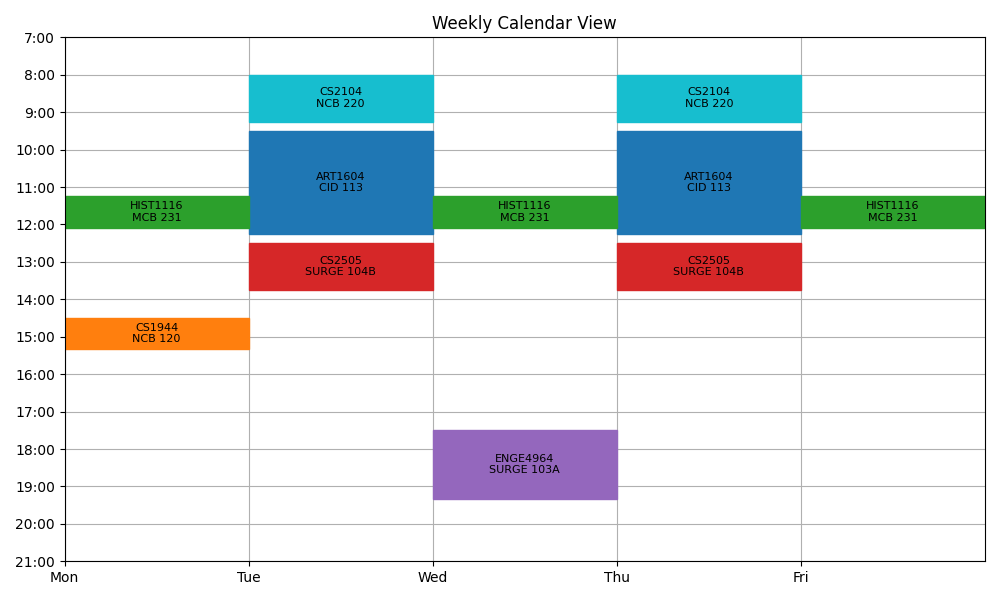
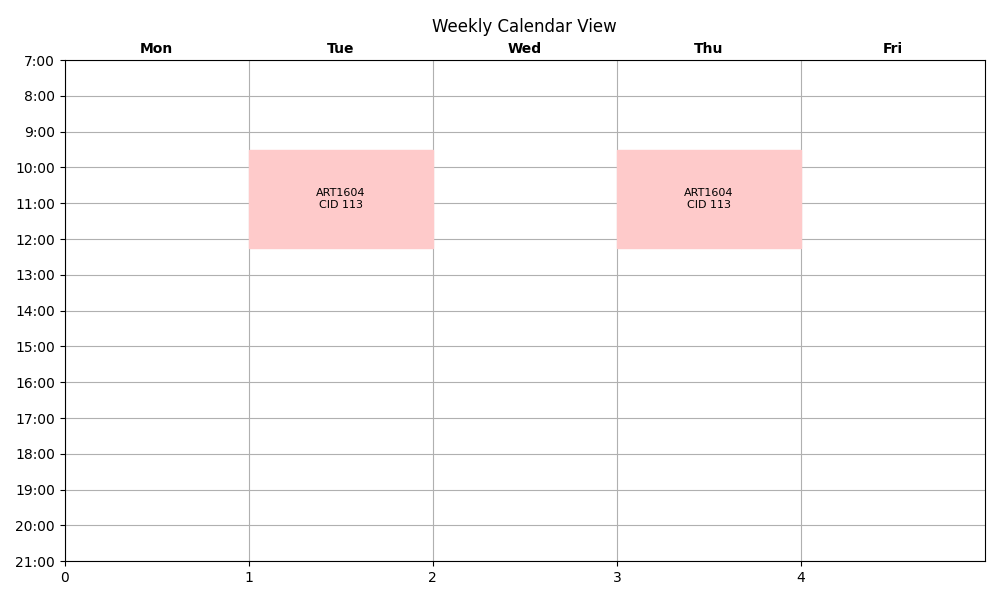
matched colors between calendar view and downloaded pdf

diff --git a/frontend/src/components/ScheduleViewer.js b/frontend/src/components/ScheduleViewer.js
@@ -6,13 +6,35 @@ import { ArrowDownTrayIcon } from '@heroicons/react/24/outline';
 function ScheduleViewer({ schedule }) {
   const [downloadMessage, setDownloadMessage] = useState("");
   const [viewMode, setViewMode] = useState("table"); // 'table' or 'calendar'
+  const [crnColors, setCrnColors] = useState({});
+
+  React.useEffect(() => {
+    if (!schedule || !schedule.classes) return;
+  
+    const colors = [
+      "#FECACA", "#BFDBFE", "#BBF7D0", "#FEF08A", "#E9D5FF",
+      "#FBCFE8", "#C7D2FE", "#99F6E4", "#FED7AA", "#A5F3FC",
+      "#D9F99D", "#FDE68A", "#A7F3D0", "#DDD6FE", "#F5D0FE",
+    ];
+  
+    const crnColorMap = {};
+    schedule.classes.forEach((cls, index) => {
+      if (!crnColorMap[cls.crn]) {
+        crnColorMap[cls.crn] = colors[index % colors.length];
+      }
+    });
+  
+    setCrnColors(crnColorMap);
+  }, [schedule]);
+  
+  
 
   const handleDownloadSchedule = async () => {
     try {
       setDownloadMessage("Preparing download...");
       const response = await axios.post(
         "http://localhost:8080/api/downloadSchedule",
-        { schedule },
+        { schedule, crnColors },
         { responseType: "blob" } // assumes you're sending a file
       );
   
@@ -126,8 +148,9 @@ function ScheduleViewer({ schedule }) {
       ) : (
         <>
           <div className="mb-5">
-            <CalendarView schedule={schedule} />
+            <CalendarView schedule={schedule} setCrnColors={setCrnColors} />
           </div>
+
 
           {/* Online Courses Section */}
           {schedule.classes &&

diff --git a/frontend/src/components/CalendarView.js b/frontend/src/components/CalendarView.js
@@ -1,6 +1,6 @@
 import React, { useState } from "react";
 
-const CalendarView = ({ schedule }) => {
+const CalendarView = ({ schedule, setCrnColors }) => {
   const [selectedClass, setSelectedClass] = useState(null);
   const [hoveredClass, setHoveredClass] = useState(null);
 

diff --git a/app.py b/app.py
@@ -25,7 +25,7 @@ CORS(app)
 load_dotenv()
 
 
-def generate_schedule_pdf(schedule_data):
+def generate_schedule_pdf(schedule_data, inputColors):
     buffer = io.BytesIO()
     doc = SimpleDocTemplate(buffer, pagesize=letter)
     styles = getSampleStyleSheet()
@@ -51,7 +51,7 @@ def generate_schedule_pdf(schedule_data):
     elements.append(table)
     elements.append(Spacer(1, 20))
 
-    create_calendar_plot(schedule_data, "calendar_plot.png")
+    create_calendar_plot(schedule_data, inputColors, "calendar_plot.png")
     from reportlab.platypus import Image
     elements.append(Image("calendar_plot.png", width=500, height=300))
 
@@ -59,13 +59,14 @@ def generate_schedule_pdf(schedule_data):
     buffer.seek(0)
     return buffer
 
-def create_calendar_plot(classes, filename):
+def create_calendar_plot(classes, inputColors, filename):
     days_map = {'M': 0, 'T': 1, 'W': 2, 'R': 3, 'F': 4}
     fig, ax = plt.subplots(figsize=(10, 6))
     ax.set_xlim(0, 5)
     ax.set_ylim(7, 21)  # 7 AM to 9 PM
     ax.set_xticks(range(5))
-    ax.set_xticklabels(['Mon', 'Tue', 'Wed', 'Thu', 'Fri'])
+    for i, day in enumerate(['Mon', 'Tue', 'Wed', 'Thu', 'Fri']):
+        ax.text(i + 0.5, 6.9, day, ha='center', va='bottom', fontsize=10, fontweight='bold')
     ax.set_yticks(range(7, 22))
     ax.set_yticklabels([f"{h}:00" for h in range(7, 22)])
     ax.grid(True)
@@ -81,7 +82,7 @@ def create_calendar_plot(classes, filename):
         try:
             course_number = cls["courseNumber"]
             if course_number not in course_colors:
-                course_colors[course_number] = color_choices[color_index % len(color_choices)]
+                course_colors[course_number] = mcolors.to_rgb(inputColors[cls['crn']])
                 color_index += 1
 
             color = course_colors[course_number]
@@ -114,8 +115,9 @@ def create_calendar_plot(classes, filename):
         except Exception as e:
             print(f"Error plotting class {cls}: {e}")
 
-    plt.title("Weekly Calendar View")
+    plt.title("Weekly Calendar View", pad=20)
     plt.tight_layout()
+    plt.subplots_adjust(top=0.90)
     plt.savefig(filename)
     plt.close()
 
@@ -485,7 +487,8 @@ def downloadSchedule():
     try:
         schedule = request.json.get("schedule", [])
         schedule = schedule['classes']
-        pdf_buffer = generate_schedule_pdf(schedule)
+        colorsV = request.json.get("crnColors")
+        pdf_buffer = generate_schedule_pdf(schedule, colorsV)
         return send_file(pdf_buffer, as_attachment=True, download_name="schedule.pdf", mimetype='application/pdf')
     except Exception as e:
         return {"error": str(e)}, 500
